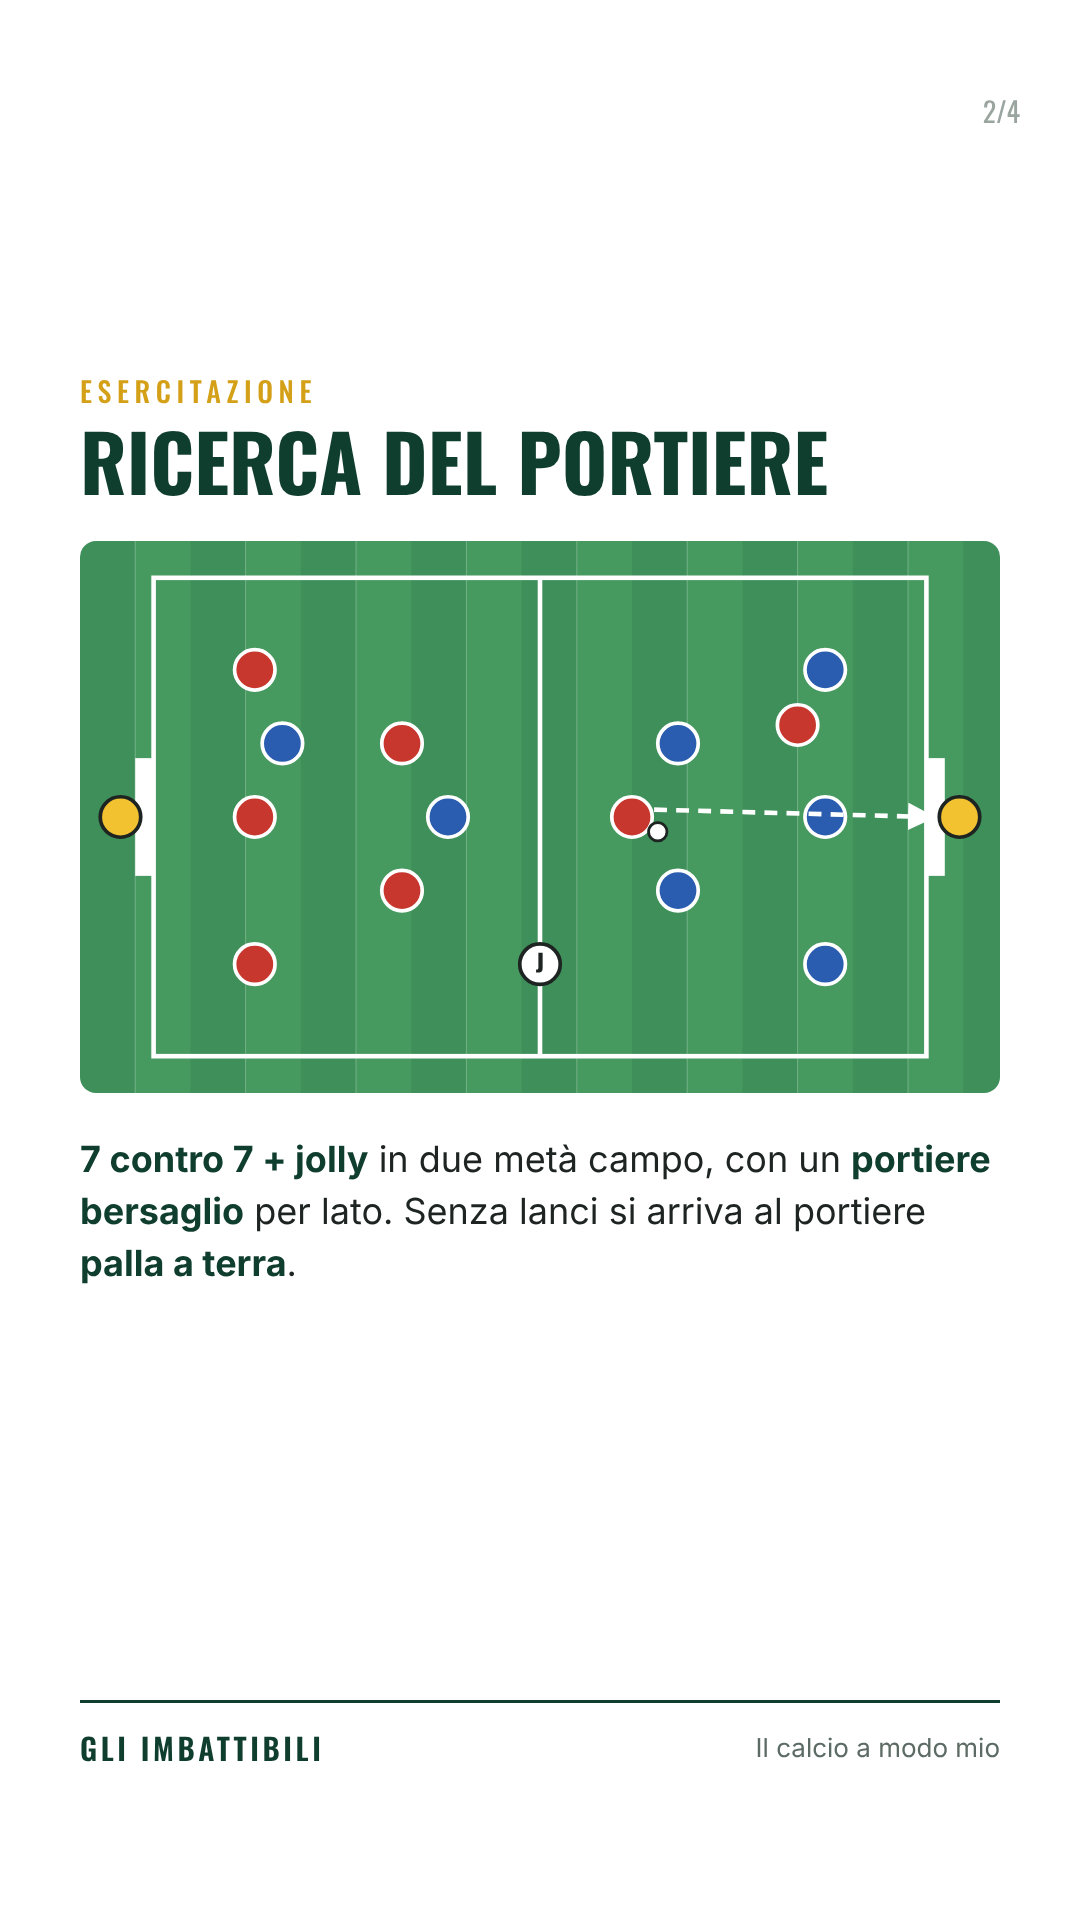
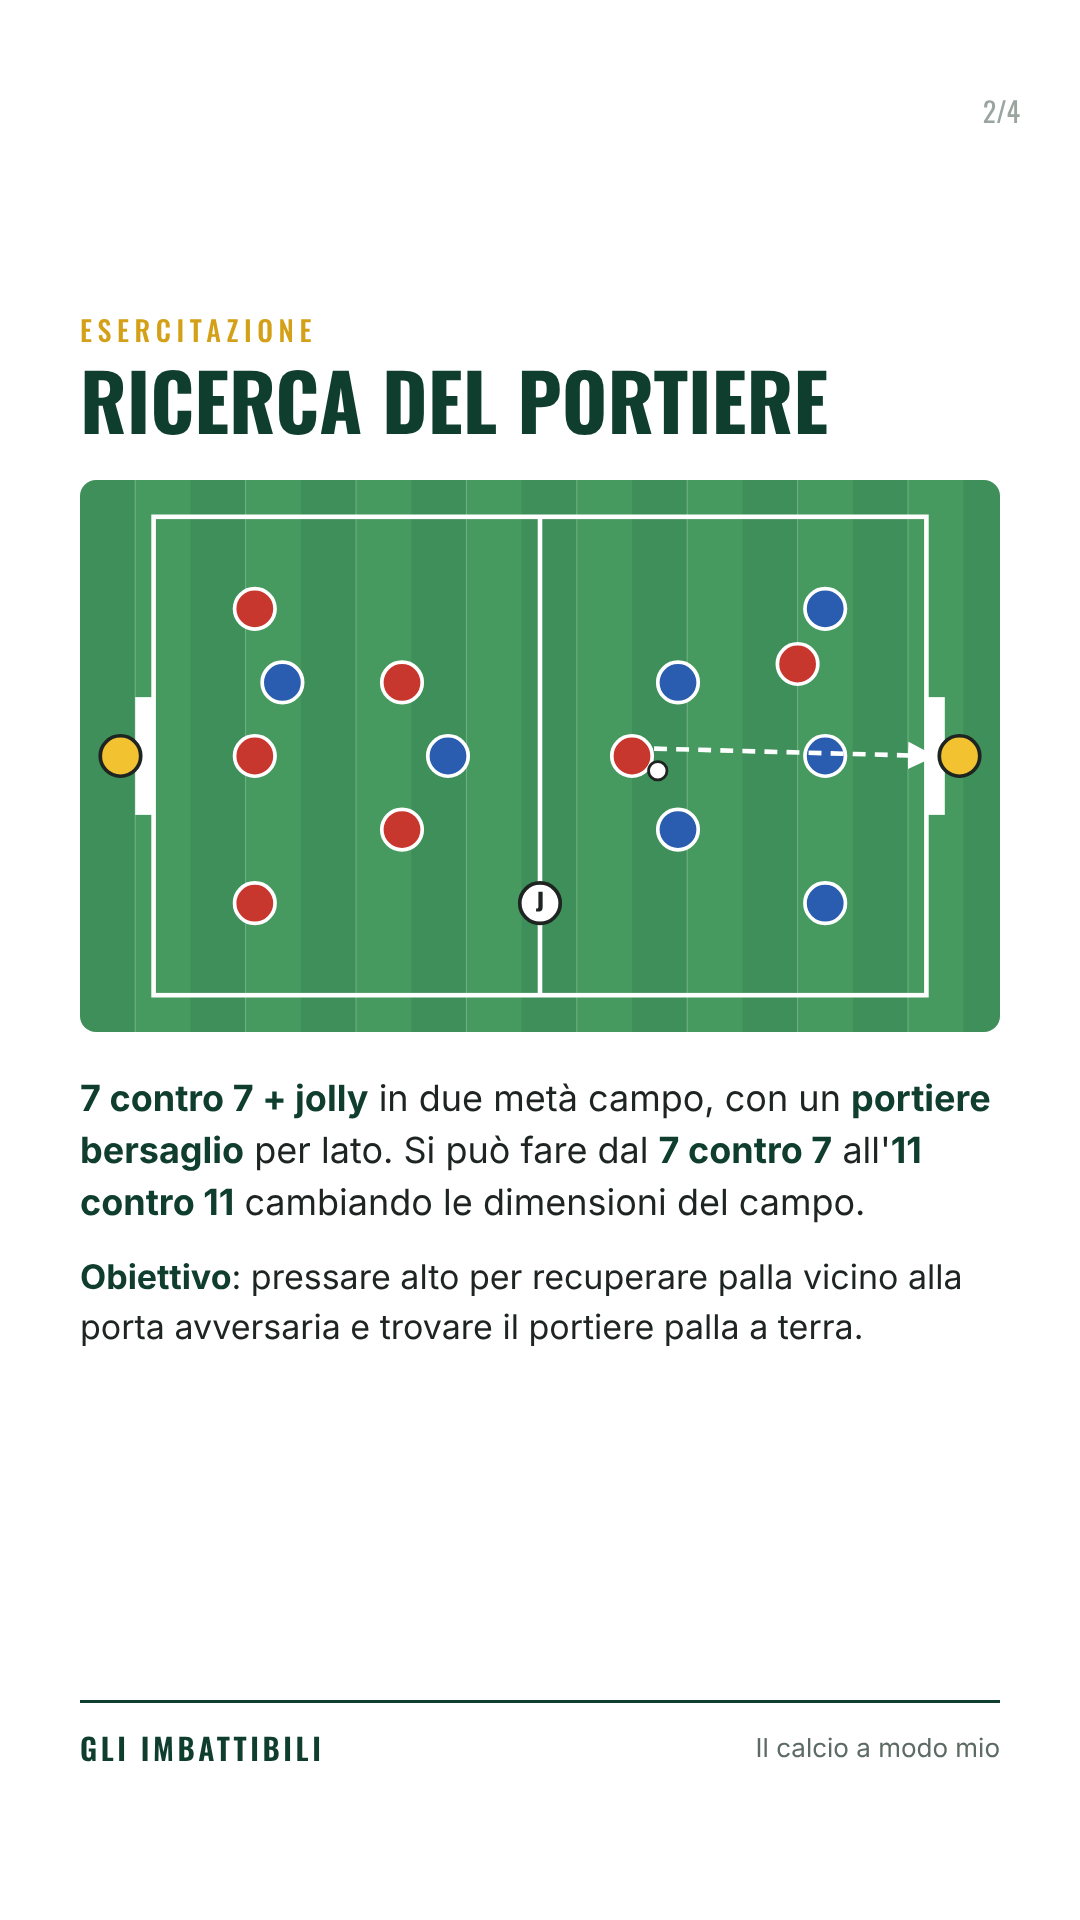
Post 5 ricerca del portiere: gol 2 punti, da 7c7 a 11c11, obiettivo
Claude-Session: https://claude.ai/code/session_01C6jnkpg7j78s78of7Dc7AP

diff --git a/marketing/social/post-4x5.html b/marketing/social/post-4x5.html
@@ -37,6 +37,7 @@ h1, h2 { font-family: Oswald, sans-serif; font-weight: 700; text-transform: uppe
 .riq { display: flex; justify-content: center; }
 .riq .schema { width: 100%; max-height: 700px; display: block; border-radius: 16px; }
 .desc { font-size: 36px; line-height: 1.45; margin-top: 40px; }
+.desc.ob { margin-top: 24px; font-size: 34px; }
 .desc b, .punti b { color: #0f3d2e; }
 .punti { list-style: none; margin-top: 20px; }
 .punti li { font-size: 42px; line-height: 1.35; padding: 34px 0 34px 70px; position: relative; border-bottom: 2px solid #e3e8e5; }
@@ -100,6 +101,7 @@ h1, h2 { font-family: Oswald, sans-serif; font-weight: 700; text-transform: uppe
       <path d="M236,350 L72,346" stroke="#fff" stroke-width="2.5" fill="none" stroke-dasharray="7 5" marker-end="url(#freccia)"/><path d="M62,334 L58,104" stroke="#fff" stroke-width="2.5" fill="none" stroke-dasharray="7 5" marker-end="url(#freccia)"/><path d="M40,250 L40,62" stroke="#f2c230" stroke-width="2.5" fill="none" marker-end="url(#freccia-oro)"/><path d="M62,44 Q170,6 262,62" stroke="#fff" stroke-width="2.5" fill="none" stroke-dasharray="7 5" marker-end="url(#freccia)"/><use href="#pA" x="40" y="46"/><text x="40" y="50.5" font-family="Oswald" font-size="13" font-weight="700" text-anchor="middle" fill="#fff">2</text><use href="#pA" x="60" y="346"/><text x="60" y="350.5" font-family="Oswald" font-size="13" font-weight="700" text-anchor="middle" fill="#fff">1</text><use href="#pA" x="440" y="92"/><use href="#pA" x="450" y="330"/><use href="#pJ" x="250" y="350"/><text x="250" y="354.5" font-family="Oswald" font-size="13" font-weight="700" text-anchor="middle" fill="#1d2421">M</text><use href="#palla" x="56" y="54"/><use href="#pB" x="140" y="60"/><text x="140" y="64.5" font-family="Oswald" font-size="13" font-weight="700" text-anchor="middle" fill="#fff">2</text><use href="#pB" x="200" y="74"/><text x="200" y="78.5" font-family="Oswald" font-size="13" font-weight="700" text-anchor="middle" fill="#fff">5</text><use href="#pB" x="262" y="88"/><text x="262" y="92.5" font-family="Oswald" font-size="13" font-weight="700" text-anchor="middle" fill="#fff">6</text><use href="#pB" x="324" y="102"/><text x="324" y="106.5" font-family="Oswald" font-size="13" font-weight="700" text-anchor="middle" fill="#fff">3</text><use href="#pB" x="172" y="108"/><text x="172" y="112.5" font-family="Oswald" font-size="13" font-weight="700" text-anchor="middle" fill="#fff">4</text><use href="#pB" x="232" y="122"/><text x="232" y="126.5" font-family="Oswald" font-size="13" font-weight="700" text-anchor="middle" fill="#fff">8</text>
     </svg></div>
   <p class="desc">Il mister dà palla a <b>X1</b>, che la passa a <b>X2</b>. X2 arriva sul fondo e crossa. La linea si sistema per <b>respingere</b>.</p>
+  
   <div class="marchio"><b>GLI IMBATTIBILI</b><span>Il calcio a modo mio</span></div>
 </section>
 <section class="slide int">
@@ -147,6 +149,7 @@ h1, h2 { font-family: Oswald, sans-serif; font-weight: 700; text-transform: uppe
     <use href="#palla" x="88" y="190"/>
   </svg></div>
   <p class="desc">10 contro 10 su 50 m. Chi riceve nella <b>metà campo offensiva</b> e riesce a girarsi e <b>servire un compagno</b> vale più di un gol. Chi difende deve stargli addosso <b>prima</b> che arrivi la palla.</p>
+  
   <div class="marchio"><b>GLI IMBATTIBILI</b><span>Il calcio a modo mio</span></div>
 </section>
 <section class="slide int">
@@ -200,6 +203,7 @@ h1, h2 { font-family: Oswald, sans-serif; font-weight: 700; text-transform: uppe
     <use href="#pA" x="360" y="110"/><text x="360" y="114.5" font-family="Oswald" font-size="13" font-weight="700" text-anchor="middle" fill="#fff">7</text><use href="#pA" x="235" y="190"/><text x="235" y="194.5" font-family="Oswald" font-size="13" font-weight="700" text-anchor="middle" fill="#fff">8</text><use href="#pA" x="140" y="275"/><text x="140" y="279.5" font-family="Oswald" font-size="13" font-weight="700" text-anchor="middle" fill="#fff">3</text><use href="#pA" x="305" y="270"/><text x="305" y="274.5" font-family="Oswald" font-size="13" font-weight="700" text-anchor="middle" fill="#fff">6</text>
   </svg></div>
   <p class="desc"><b>4 contro 4 + 2 jolly</b> (il 9 e il 10) in un quadrato di <b>30 × 30 m</b>. <b>8 passaggi</b> consecutivi = <b>1 punto</b>.</p>
+  
   <div class="marchio"><b>GLI IMBATTIBILI</b><span>Il calcio a modo mio</span></div>
 </section>
 <section class="slide int">
@@ -254,7 +258,7 @@ h1, h2 { font-family: Oswald, sans-serif; font-weight: 700; text-transform: uppe
   
   <div class="txt">
     <div class="kick">Gli Imbattibili · dai quaderni del mister</div>
-    <h1>Recupero alto<span>= 5 punti</span></h1>
+    <h1>Recupero alto<span>= 2 punti</span></h1>
     <p class="sub">La Juniores che ha vinto il campionato <b>senza perdere una partita</b></p>
     <div class="scorri">Scorri →</div>
   </div>
@@ -272,14 +276,15 @@ h1, h2 { font-family: Oswald, sans-serif; font-weight: 700; text-transform: uppe
     <use href="#palla" x="314" y="158"/>
     <path d="M312,146 L462,150" stroke="#fff" stroke-width="2.5" fill="none" stroke-dasharray="7 5" marker-end="url(#freccia)"/>
   </svg></div>
-  <p class="desc"><b>7 contro 7 + jolly</b> in due metà campo, con un <b>portiere bersaglio</b> per lato. Senza lanci si arriva al portiere <b>palla a terra</b>.</p>
+  <p class="desc"><b>7 contro 7 + jolly</b> in due metà campo, con un <b>portiere bersaglio</b> per lato. Si può fare dal <b>7 contro 7</b> all'<b>11 contro 11</b> cambiando le dimensioni del campo.</p>
+  <p class="desc ob"><b>Obiettivo</b>: pressare alto per recuperare palla vicino alla porta avversaria e trovare il portiere palla a terra.</p>
   <div class="marchio"><b>GLI IMBATTIBILI</b><span>Il calcio a modo mio</span></div>
 </section>
 <section class="slide int">
   <div class="num">3/4</div>
   <div class="kicker">Ricerca del portiere</div>
   <h2>Le regole</h2>
-  <ul class="punti"><li><b>2 tempi da 15'</b></li><li>Massimo <b>3 tocchi</b>, niente lancio</li><li>Recuperi palla nella <b>metà offensiva</b> e fai gol: <b>5 punti</b></li><li>Nel 2° tempo <b>solo gioco verticale</b></li></ul>
+  <ul class="punti"><li><b>2 tempi da 15'</b></li><li>Massimo <b>3 tocchi</b>, niente lancio</li><li>Recuperi palla nella <b>metà offensiva</b> e fai gol: <b>2 punti</b></li><li>Nel 2° tempo <b>solo gioco verticale</b></li></ul>
   <div class="marchio"><b>GLI IMBATTIBILI</b><span>Il calcio a modo mio</span></div>
 </section>
 <section class="slide fine">

diff --git a/marketing/social/post-9x16.html b/marketing/social/post-9x16.html
@@ -37,6 +37,7 @@ h1, h2 { font-family: Oswald, sans-serif; font-weight: 700; text-transform: uppe
 .riq { display: flex; justify-content: center; }
 .riq .schema { width: 100%; max-height: 900px; display: block; border-radius: 16px; }
 .desc { font-size: 36px; line-height: 1.45; margin-top: 40px; }
+.desc.ob { margin-top: 24px; font-size: 34px; }
 .desc b, .punti b { color: #0f3d2e; }
 .punti { list-style: none; margin-top: 20px; }
 .punti li { font-size: 42px; line-height: 1.35; padding: 34px 0 34px 70px; position: relative; border-bottom: 2px solid #e3e8e5; }
@@ -100,6 +101,7 @@ h1, h2 { font-family: Oswald, sans-serif; font-weight: 700; text-transform: uppe
       <path d="M236,350 L72,346" stroke="#fff" stroke-width="2.5" fill="none" stroke-dasharray="7 5" marker-end="url(#freccia)"/><path d="M62,334 L58,104" stroke="#fff" stroke-width="2.5" fill="none" stroke-dasharray="7 5" marker-end="url(#freccia)"/><path d="M40,250 L40,62" stroke="#f2c230" stroke-width="2.5" fill="none" marker-end="url(#freccia-oro)"/><path d="M62,44 Q170,6 262,62" stroke="#fff" stroke-width="2.5" fill="none" stroke-dasharray="7 5" marker-end="url(#freccia)"/><use href="#pA" x="40" y="46"/><text x="40" y="50.5" font-family="Oswald" font-size="13" font-weight="700" text-anchor="middle" fill="#fff">2</text><use href="#pA" x="60" y="346"/><text x="60" y="350.5" font-family="Oswald" font-size="13" font-weight="700" text-anchor="middle" fill="#fff">1</text><use href="#pA" x="440" y="92"/><use href="#pA" x="450" y="330"/><use href="#pJ" x="250" y="350"/><text x="250" y="354.5" font-family="Oswald" font-size="13" font-weight="700" text-anchor="middle" fill="#1d2421">M</text><use href="#palla" x="56" y="54"/><use href="#pB" x="140" y="60"/><text x="140" y="64.5" font-family="Oswald" font-size="13" font-weight="700" text-anchor="middle" fill="#fff">2</text><use href="#pB" x="200" y="74"/><text x="200" y="78.5" font-family="Oswald" font-size="13" font-weight="700" text-anchor="middle" fill="#fff">5</text><use href="#pB" x="262" y="88"/><text x="262" y="92.5" font-family="Oswald" font-size="13" font-weight="700" text-anchor="middle" fill="#fff">6</text><use href="#pB" x="324" y="102"/><text x="324" y="106.5" font-family="Oswald" font-size="13" font-weight="700" text-anchor="middle" fill="#fff">3</text><use href="#pB" x="172" y="108"/><text x="172" y="112.5" font-family="Oswald" font-size="13" font-weight="700" text-anchor="middle" fill="#fff">4</text><use href="#pB" x="232" y="122"/><text x="232" y="126.5" font-family="Oswald" font-size="13" font-weight="700" text-anchor="middle" fill="#fff">8</text>
     </svg></div>
   <p class="desc">Il mister dà palla a <b>X1</b>, che la passa a <b>X2</b>. X2 arriva sul fondo e crossa. La linea si sistema per <b>respingere</b>.</p>
+  
   <div class="marchio"><b>GLI IMBATTIBILI</b><span>Il calcio a modo mio</span></div>
 </section>
 <section class="slide int">
@@ -147,6 +149,7 @@ h1, h2 { font-family: Oswald, sans-serif; font-weight: 700; text-transform: uppe
     <use href="#palla" x="88" y="190"/>
   </svg></div>
   <p class="desc">10 contro 10 su 50 m. Chi riceve nella <b>metà campo offensiva</b> e riesce a girarsi e <b>servire un compagno</b> vale più di un gol. Chi difende deve stargli addosso <b>prima</b> che arrivi la palla.</p>
+  
   <div class="marchio"><b>GLI IMBATTIBILI</b><span>Il calcio a modo mio</span></div>
 </section>
 <section class="slide int">
@@ -200,6 +203,7 @@ h1, h2 { font-family: Oswald, sans-serif; font-weight: 700; text-transform: uppe
     <use href="#pA" x="360" y="110"/><text x="360" y="114.5" font-family="Oswald" font-size="13" font-weight="700" text-anchor="middle" fill="#fff">7</text><use href="#pA" x="235" y="190"/><text x="235" y="194.5" font-family="Oswald" font-size="13" font-weight="700" text-anchor="middle" fill="#fff">8</text><use href="#pA" x="140" y="275"/><text x="140" y="279.5" font-family="Oswald" font-size="13" font-weight="700" text-anchor="middle" fill="#fff">3</text><use href="#pA" x="305" y="270"/><text x="305" y="274.5" font-family="Oswald" font-size="13" font-weight="700" text-anchor="middle" fill="#fff">6</text>
   </svg></div>
   <p class="desc"><b>4 contro 4 + 2 jolly</b> (il 9 e il 10) in un quadrato di <b>30 × 30 m</b>. <b>8 passaggi</b> consecutivi = <b>1 punto</b>.</p>
+  
   <div class="marchio"><b>GLI IMBATTIBILI</b><span>Il calcio a modo mio</span></div>
 </section>
 <section class="slide int">
@@ -254,7 +258,7 @@ h1, h2 { font-family: Oswald, sans-serif; font-weight: 700; text-transform: uppe
   
   <div class="txt">
     <div class="kick">Gli Imbattibili · dai quaderni del mister</div>
-    <h1>Recupero alto<span>= 5 punti</span></h1>
+    <h1>Recupero alto<span>= 2 punti</span></h1>
     <p class="sub">La Juniores che ha vinto il campionato <b>senza perdere una partita</b></p>
     <div class="scorri">Scorri →</div>
   </div>
@@ -272,14 +276,15 @@ h1, h2 { font-family: Oswald, sans-serif; font-weight: 700; text-transform: uppe
     <use href="#palla" x="314" y="158"/>
     <path d="M312,146 L462,150" stroke="#fff" stroke-width="2.5" fill="none" stroke-dasharray="7 5" marker-end="url(#freccia)"/>
   </svg></div>
-  <p class="desc"><b>7 contro 7 + jolly</b> in due metà campo, con un <b>portiere bersaglio</b> per lato. Senza lanci si arriva al portiere <b>palla a terra</b>.</p>
+  <p class="desc"><b>7 contro 7 + jolly</b> in due metà campo, con un <b>portiere bersaglio</b> per lato. Si può fare dal <b>7 contro 7</b> all'<b>11 contro 11</b> cambiando le dimensioni del campo.</p>
+  <p class="desc ob"><b>Obiettivo</b>: pressare alto per recuperare palla vicino alla porta avversaria e trovare il portiere palla a terra.</p>
   <div class="marchio"><b>GLI IMBATTIBILI</b><span>Il calcio a modo mio</span></div>
 </section>
 <section class="slide int">
   <div class="num">3/4</div>
   <div class="kicker">Ricerca del portiere</div>
   <h2>Le regole</h2>
-  <ul class="punti"><li><b>2 tempi da 15'</b></li><li>Massimo <b>3 tocchi</b>, niente lancio</li><li>Recuperi palla nella <b>metà offensiva</b> e fai gol: <b>5 punti</b></li><li>Nel 2° tempo <b>solo gioco verticale</b></li></ul>
+  <ul class="punti"><li><b>2 tempi da 15'</b></li><li>Massimo <b>3 tocchi</b>, niente lancio</li><li>Recuperi palla nella <b>metà offensiva</b> e fai gol: <b>2 punti</b></li><li>Nel 2° tempo <b>solo gioco verticale</b></li></ul>
   <div class="marchio"><b>GLI IMBATTIBILI</b><span>Il calcio a modo mio</span></div>
 </section>
 <section class="slide fine">

diff --git a/marketing/social/genera-post.py b/marketing/social/genera-post.py
@@ -159,14 +159,15 @@ POST = [
     ),
     dict(
         n=5, foto="allenamento-16.jpg", cartella="campionato", tema="chiaro",
-        gancio="Recupero alto<span>= 5 punti</span>",
+        gancio="Recupero alto<span>= 2 punti</span>",
         schema=schema_ricerca_portiere(),
         titolo2="Ricerca del portiere",
-        testo2="<b>7 contro 7 + jolly</b> in due metà campo, con un <b>portiere bersaglio</b> per lato. Senza lanci si arriva al portiere <b>palla a terra</b>.",
+        testo2="<b>7 contro 7 + jolly</b> in due metà campo, con un <b>portiere bersaglio</b> per lato. Si può fare dal <b>7 contro 7</b> all'<b>11 contro 11</b> cambiando le dimensioni del campo.",
+        obiettivo="<b>Obiettivo</b>: pressare alto per recuperare palla vicino alla porta avversaria e trovare il portiere palla a terra.",
         titolo3="Le regole",
         punti=["<b>2 tempi da 15'</b>",
                "Massimo <b>3 tocchi</b>, niente lancio",
-               "Recuperi palla nella <b>metà offensiva</b> e fai gol: <b>5 punti</b>",
+               "Recuperi palla nella <b>metà offensiva</b> e fai gol: <b>2 punti</b>",
                "Nel 2° tempo <b>solo gioco verticale</b>"],
         fine_sub="La Juniores che ha vinto il campionato <b>senza perdere una partita</b>. Gli allenamenti in campionato, scritti a mano dal mister e messi in pagina.",
     ),
@@ -195,6 +196,7 @@ def slides(p, tot=4):
   <h2>{p["titolo2"]}</h2>
   <div class="riq">{p["schema"]}</div>
   <p class="desc">{p["testo2"]}</p>
+  {('<p class="desc ob">' + p["obiettivo"] + '</p>') if p.get("obiettivo") else ''}
   {marchio}
 </section>'''
     return f'''
@@ -267,6 +269,7 @@ h1, h2 {{ font-family: Oswald, sans-serif; font-weight: 700; text-transform: upp
 .riq {{ display: flex; justify-content: center; }}
 .riq .schema {{ width: 100%; max-height: {900 if alto else 700}px; display: block; border-radius: 16px; }}
 .desc {{ font-size: 36px; line-height: 1.45; margin-top: 40px; }}
+.desc.ob {{ margin-top: 24px; font-size: 34px; }}
 .desc b, .punti b {{ color: #0f3d2e; }}
 .punti {{ list-style: none; margin-top: 20px; }}
 .punti li {{ font-size: 42px; line-height: 1.35; padding: 34px 0 34px 70px; position: relative; border-bottom: 2px solid #e3e8e5; }}
